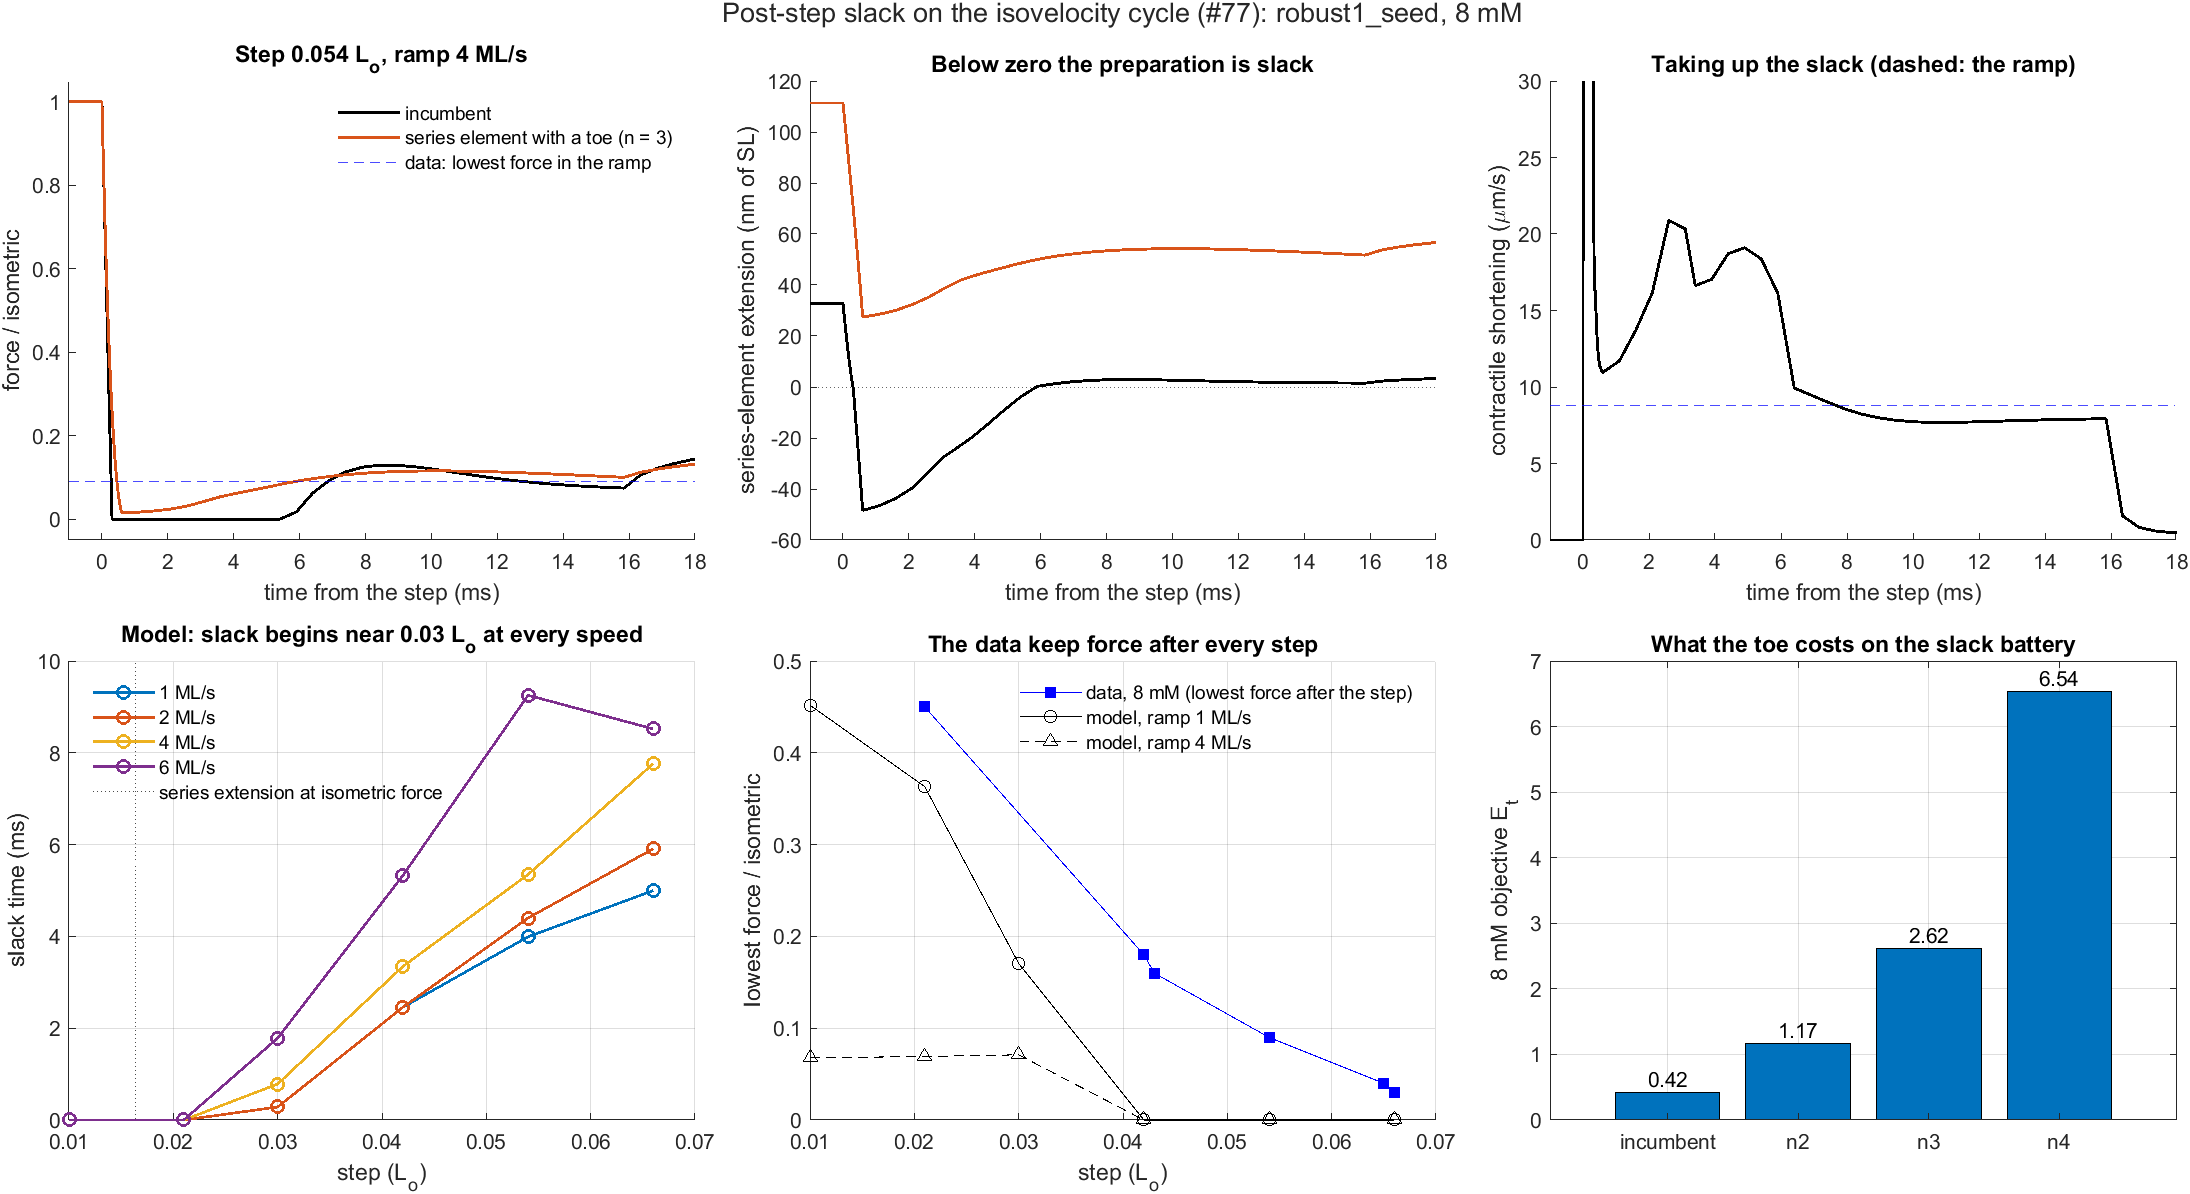
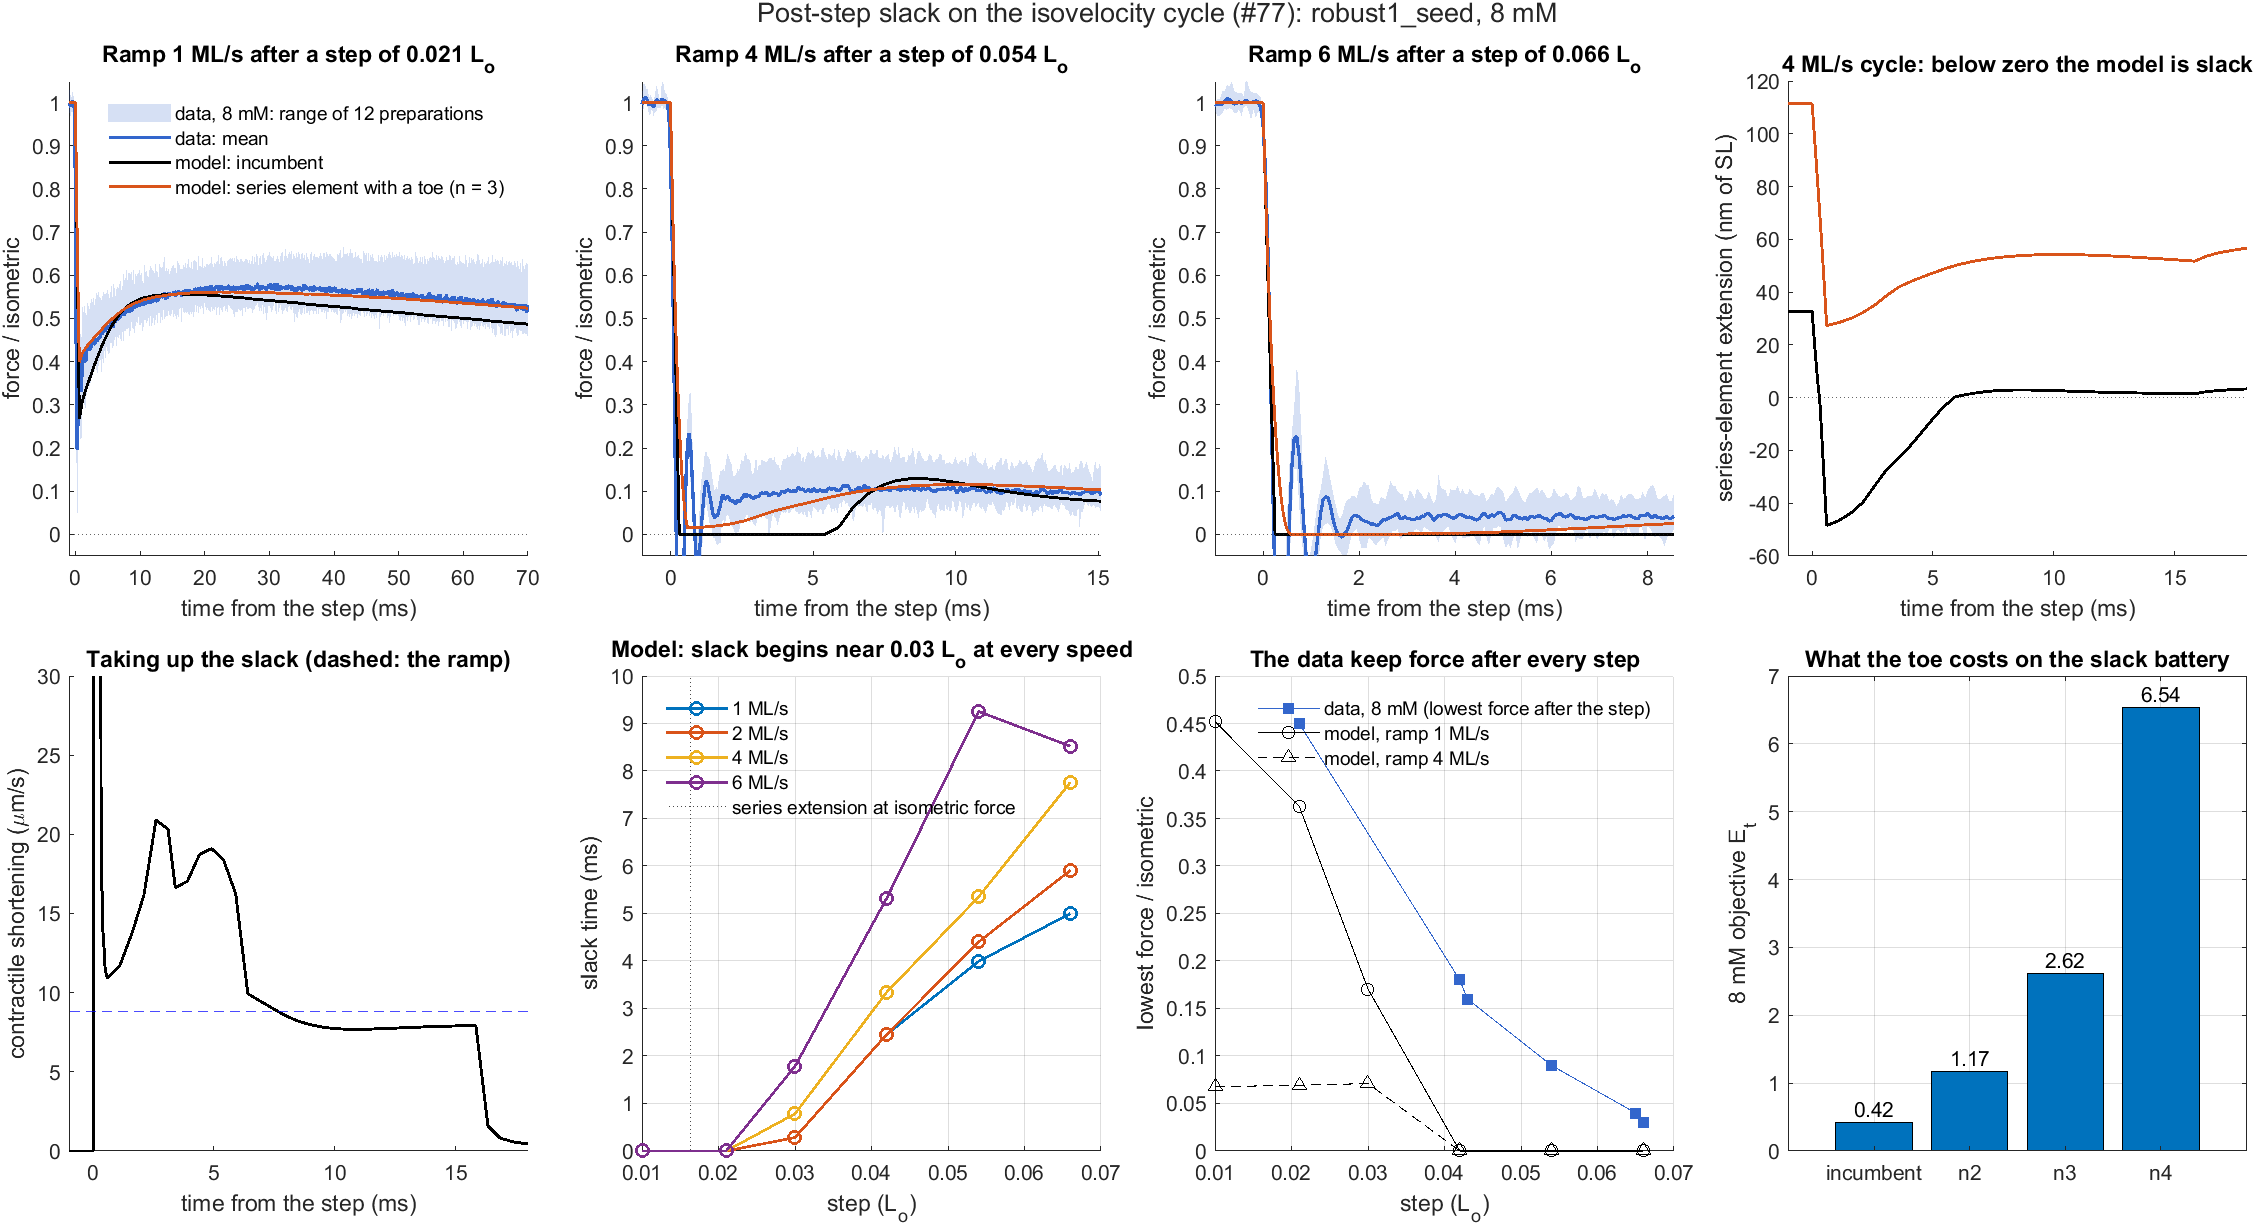
Post-step slack: measured force time course in the summary figure (#77)
Top row now shows the twelve 8 mM records (mean and range) against the
incumbent and the toe on the 1, 4 and 6 ML/s cycles; report section 0
gives the numbers. Records the PI's choice of option 1.

diff --git a/Analyses/26-11-19-PostStepSlack/scripts/PlotStepScan.m b/Analyses/26-11-19-PostStepSlack/scripts/PlotStepScan.m
@@ -1,23 +1,52 @@
-%% PlotStepScan  Figure for #77: the slack mechanism, the step scan, the levers and their cost.
+%% PlotStepScan  Figure for #77: the measured force time course against the model on three
+% cycles, the slack mechanism, the step scan, the levers and their cost.
+%
+% Top row: force through the 1, 4 and 6 ML/s cycles. Data = the twelve 8 mM records of the
+% Beard2022 set (mean and full range; time from the step onset; force above the slack baseline,
+% as a fraction of the force in the hold before the step). Model = the same cycle with the
+% median measured step. Needs Analyses/FV_Beard2022/results/beard2022_fv_raw.mat (git-ignored).
 here = fileparts(mfilename('fullpath'));  ana = fileparts(here);  root = fileparts(fileparts(ana));
 addpath(genpath(fullfile(root, 'Model')));  addpath(genpath(fullfile(root, 'Auxiliary')));  addpath(fullfile(root, 'params'));  addpath(here);
+addpath(fullfile(root, 'Analyses', 'FV_Beard2022'));
 L = load(fullfile(ana, 'results', 'step_scan.mat'));  Sc = load(fullfile(ana, 'results', 'score.mat'));
 pP = basePars();  n0 = pP.ekSE;  n = 3;
-o0 = simStepRamp(pP, 0.054, 4);
-o3 = simStepRamp(pP, 0.054, 4, struct('set', struct('ekSE', n, 'kSE', L.A.Fss^(1/n)/(L.A.LSE0*n/n0))));
+toe = struct('set', struct('ekSE', n, 'kSE', L.A.Fss^(1/n)/(L.A.LSE0*n/n0)));
+D = loadBeard2022FV();  D = D([D.atp] == 8);
+vShow = [1 4 6];  tEnd = [70 18 13];                    % ML/s; panel length (ms)
+orange = [0.85 0.33 0.1];  blue = [0.2 0.4 0.8];
+fNorm = @(o) o.Force(:)/interp1(o.t(:), o.Force(:), -0.001);
 if ~isfolder(fullfile(ana, 'figures')), mkdir(fullfile(ana, 'figures')); end
-fig = figure('Visible', 'off', 'Position', [50 50 1500 780], 'Color', 'w');
-tl = tiledlayout(2, 3, 'TileSpacing', 'compact', 'Padding', 'compact');
+fig = figure('Visible', 'off', 'Position', [50 50 1900 800], 'Color', 'w');
+tl = tiledlayout(2, 4, 'TileSpacing', 'compact', 'Padding', 'compact');
+Tc = table();
+for j = 1:numel(vShow)
+    [tg, Fd, stp, tRamp] = dataCycle(D, vShow(j), tEnd(j));
+    o0 = simStepRamp(pP, median(stp), vShow(j));  o3 = simStepRamp(pP, median(stp), vShow(j), toe);
+    if vShow(j) == 4, o4 = o0; o4t = o3; end
+    nexttile; hold on;
+    fill([tg, fliplr(tg)], [min(Fd, [], 1), fliplr(max(Fd, [], 1))], blue, 'FaceAlpha', 0.2, 'EdgeColor', 'none', 'DisplayName', sprintf('data, 8 mM: range of %d preparations', size(Fd, 1)));
+    plot(tg, mean(Fd, 1), 'Color', blue, 'LineWidth', 1.6, 'DisplayName', 'data: mean');
+    plot(1e3*o0.t, fNorm(o0), 'k', 'LineWidth', 1.4, 'DisplayName', 'model: incumbent');
+    plot(1e3*o3.t, fNorm(o3), 'Color', orange, 'LineWidth', 1.4, 'DisplayName', 'model: series element with a toe (n = 3)');
+    yline(0, ':', 'HandleVisibility', 'off');
+    xlim([-1 min(tEnd(j), median(tRamp))]); ylim([-0.05 1.05]);
+    xlabel('time from the step (ms)'); ylabel('force / isometric');
+    title(sprintf('Ramp %g ML/s after a step of %.3f L_o', vShow(j), median(stp)));
+    if j == 1, legend('Box', 'off', 'Location', 'northeast'); end
+    % numbers for the report: force at fixed times into the ramp
+    tq = [2 5 10];  tq = tq(tq < min(tEnd(j), median(tRamp)));
+    for q = tq
+        Tc = [Tc; table(vShow(j), median(stp), q, mean(interp1(tg, Fd', q)), min(interp1(tg, Fd', q)), max(interp1(tg, Fd', q)), ...
+            interp1(1e3*o0.t, fNorm(o0), q), interp1(1e3*o3.t, fNorm(o3), q), ...
+            'VariableNames', {'v', 'step', 't_ms', 'data_mean', 'data_min', 'data_max', 'incumbent', 'toe'})]; %#ok<AGROW>
+    end
+end
+disp(Tc);  writetable(Tc, fullfile(ana, 'results', 'timecourse_table.csv'));
 nexttile; hold on;
-f = @(o) o.Force(:)/interp1(o.t(:), o.Force(:), -0.001);
-plot(1e3*o0.t, f(o0), 'k', 'LineWidth', 1.4, 'DisplayName', 'incumbent'); plot(1e3*o3.t, f(o3), 'Color', [0.85 0.33 0.1], 'LineWidth', 1.4, 'DisplayName', 'series element with a toe (n = 3)');
-yline(0.09, 'b--', 'DisplayName', 'data: lowest force in the ramp'); xlim([-1 18]); ylim([-0.05 1.05]);
-xlabel('time from the step (ms)'); ylabel('force / isometric'); title('Step 0.054 L_o, ramp 4 ML/s'); legend('Box', 'off');
+plot(1e3*o4.t, 1e3*o4.LSE, 'k', 'LineWidth', 1.4); plot(1e3*o4t.t, 1e3*o4t.LSE, 'Color', orange, 'LineWidth', 1.4); yline(0, ':');
+xlim([-1 18]); xlabel('time from the step (ms)'); ylabel('series-element extension (nm of SL)'); title('4 ML/s cycle: below zero the model is slack');
 nexttile; hold on;
-plot(1e3*o0.t, 1e3*o0.LSE, 'k', 'LineWidth', 1.4); plot(1e3*o3.t, 1e3*o3.LSE, 'Color', [0.85 0.33 0.1], 'LineWidth', 1.4); yline(0, ':');
-xlim([-1 18]); xlabel('time from the step (ms)'); ylabel('series-element extension (nm of SL)'); title('Below zero the preparation is slack');
-nexttile; hold on;
-plot(1e3*o0.t, -o0.Vxb, 'k', 'LineWidth', 1.4); yline(4*2.2, 'b--'); xlim([-1 18]); ylim([0 30]);
+plot(1e3*o4.t, -o4.Vxb, 'k', 'LineWidth', 1.4); yline(4*2.2, 'b--'); xlim([-1 18]); ylim([0 30]);
 xlabel('time from the step (ms)'); ylabel('contractile shortening (\mum/s)'); title('Taking up the slack (dashed: the ramp)');
 nexttile; hold on;
 cm = lines(numel(L.vv));
@@ -26,7 +55,7 @@ xline(L.A.LSE0/2, 'k:', 'DisplayName', 'series extension at isometric force');
 xlabel('step (L_o)'); ylabel('slack time (ms)'); title('Model: slack begins near 0.03 L_o at every speed'); legend('Box', 'off', 'Location', 'northwest'); grid on;
 nexttile; hold on;
 ds = [0.021 0.042 0.043 0.054 0.065 0.066];  dm = [0.45 0.18 0.16 0.09 0.04 0.03];
-plot(ds, dm, 'bs-', 'MarkerFaceColor', 'b', 'DisplayName', 'data, 8 mM (lowest force after the step)');
+plot(ds, dm, 's-', 'Color', blue, 'MarkerFaceColor', blue, 'DisplayName', 'data, 8 mM (lowest force after the step)');
 plot(L.steps, L.A.Fmin(1, :), 'ko-', 'DisplayName', 'model, ramp 1 ML/s'); plot(L.steps, L.A.Fmin(3, :), 'k^--', 'DisplayName', 'model, ramp 4 ML/s');
 xlabel('step (L_o)'); ylabel('lowest force / isometric'); title('The data keep force after every step'); legend('Box', 'off'); grid on;
 nexttile;
@@ -34,3 +63,18 @@ S = Sc.S;  bar(categorical({S.name}, {S.name}), [S.cost]); ylabel('8 mM objectiv
 text(1:numel(S), [S.cost], compose('%.2f', [S.cost]), 'HorizontalAlignment', 'center', 'VerticalAlignment', 'bottom');
 title(tl, 'Post-step slack on the isovelocity cycle (#77): robust1\_seed, 8 mM');
 exportgraphics(fig, fullfile(ana, 'figures', 'post_step_slack.png'), 'Resolution', 150);  close(fig);
+
+function [tg, Fd, stp, tRamp] = dataCycle(D, v, tEnd)
+% One row of Fd per record: force above the slack baseline over the force in the hold before
+% the step, on the grid tg (ms from the step onset). stp = step size (Lo), tRamp = ramp length (ms).
+vNom = [6 1 3 5 0.5 4 2];  c = find(vNom == v);          % recorded order of the cycles
+tg = -2:0.05:tEnd;  Fd = nan(numel(D), numel(tg));  stp = nan(numel(D), 1);  tRamp = stp;
+for k = 1:numel(D)
+    t = D(k).t;  Lk = D(k).L;  F = D(k).F;
+    R = readIsoV(t, Lk, F);  t0 = R.tStart(c);
+    Fpre = median(F(t >= t0 - 20 & t < t0 - 1));
+    Fd(k, :) = (interp1(t - t0, F, tg) - R.F0(c))/(Fpre - R.F0(c));
+    stp(k) = median(Lk(t >= t0 - 20 & t < t0 - 1)) - mean(Lk(t >= t0 + 1.25 & t <= t0 + 1.75));
+    tRamp(k) = R.tSlack(c) - t0;
+end
+end

diff --git a/Analyses/26-11-19-PostStepSlack/report.md b/Analyses/26-11-19-PostStepSlack/report.md
@@ -1,6 +1,6 @@
 # Post-step slack on the isovelocity cycle: what carries it
 
-Issue #77 · 2026-11-19 · drafted by Claude (AI agent) · status: carrier named; no fix that keeps the 8 mM objective
+Issue #77 · 2026-11-19 · drafted by Claude (AI agent) · status: carrier named; no fix that keeps the 8 mM objective; the PI chose option 1 (2026-11-24)
 
 ## Bottom line
 
@@ -30,7 +30,27 @@ On the Beard2022 isovelocity protocol the incumbent model is slack for 2–8.5 m
 
 ![Post-step slack](figures/post_step_slack.png)
 
-*Top: force, series-element extension and contractile shortening speed through one cycle (step 0.054 Lo, ramp 4 ML/s); black incumbent, orange the series element with a toe. Bottom: slack time against step size; lowest force after the step, model against data; the 8 mM objective of the candidates.*
+*Top: force through the 1, 4 and 6 ML/s cycles, measured (blue: mean and full range of the twelve 8 mM records) and modelled (black incumbent, orange the series element with a toe); right, the series-element extension on the 4 ML/s cycle. Bottom: contractile shortening speed on the 4 ML/s cycle; slack time against step size; lowest force after the step, model against data; the 8 mM objective of the candidates.*
+
+### 0. The measured time course against the model (added 2026-11-24)
+
+Force as a fraction of the force in the hold before the step, at fixed times after the step onset. Data: the twelve 8 mM records, force above the slack baseline, mean (lowest to highest preparation). Model: the same cycle with the median measured step.
+
+| Cycle | Time (ms) | Data | Incumbent | Toe (exponent 3) |
+|---|---|---|---|---|
+| 1 ML/s, step 0.021 Lo | 2 | 0.43 (0.36–0.53) | 0.35 | 0.44 |
+| | 5 | 0.48 (0.41–0.56) | 0.47 | 0.49 |
+| | 10 | 0.54 (0.49–0.61) | 0.55 | 0.54 |
+| 4 ML/s, step 0.054 Lo | 2 | 0.09 (0.04–0.19) | 0 | 0.02 |
+| | 5 | 0.11 (0.06–0.20) | 0 | 0.08 |
+| | 10 | 0.10 (0.05–0.18) | 0.12 | 0.12 |
+| 6 ML/s, step 0.066 Lo | 2 | 0.04 (−0.01–0.11) | 0 | 0.00 |
+| | 5 | 0.05 (−0.01–0.10) | 0 | 0.01 |
+
+- **The data settle within about 2 ms of the step** and then hold a nearly flat force through the ramp: 0.10 at 4 ML/s, 0.04–0.05 at 6 ML/s. The first 2 ms are a damped ringing of the motor and the preparation.
+- **The incumbent is at zero for the first 5–6 ms at 4 ML/s and for the whole ramp at 6 ML/s.** So on the measured protocol its force–velocity curve drops to zero at the top speeds, where the data still carry force. (The PI: "The problem is that the FV profile collapses to 0"; I read this as the high-speed end of the curve.)
+- At 1 ML/s the incumbent is never slack, but it dips lower than the data right after the step (0.35 against 0.43) and falls below them late in the ramp (0.49 against 0.53 at 70 ms).
+- The toe follows the 1 ML/s trace within the data range throughout and reaches the data at 4 ML/s by 6 ms. At 6 ML/s it is still below the data for the whole ramp (0.02 at 8 ms).
 
 ### 1. What happens in the cycle (0.054 Lo, 4 ML/s)
 
@@ -120,10 +140,14 @@ Not done from the plan: the re-run of the 24 records with a fix (there is no fix
 
 Recommendation: option 1 as the next issue, since it is one day of work and decides whether option 2 is needed.
 
+**Decision (filip-jezek, 2026-11-24):** "Pick option 1. A further analysis is needed to reconcile the two." Proposed follow-up issues, to be filed on approval:
+- **A series element for the isovelocity records:** fit `kSE` and `ekSE` to the step troughs and the first 10 ms of the 1–6 ML/s cycles of the Beard2022 set; everything else stays at the incumbent. Unblocks #79.
+- **Reconcile the two series elements:** why the slack battery wants a short, stiff element and the isovelocity cycle a long one with a soft foot. Candidates: end compliance of the preparation (2021 against 2026 mounts), a joint refit with `ekSE` free (option 2), or a mechanism missing in the model that the toe stands in for.
+
 ## Reproduce
 
 ```matlab
 run('Analyses/26-11-19-PostStepSlack/scripts/RunStepScan.m')          % 39 simulations, ~4.5 min, one core
 run('Analyses/26-11-19-PostStepSlack/scripts/RunScoreCandidates.m')   % 4 objective evaluations, 5 workers, ~3 min; runs in the checkout that has data/
-run('Analyses/26-11-19-PostStepSlack/scripts/PlotStepScan.m')         % figure
+run('Analyses/26-11-19-PostStepSlack/scripts/PlotStepScan.m')         % figure and the table of section 0; 6 simulations, ~1 min; needs the cached records of Analyses/FV_Beard2022
 ```
